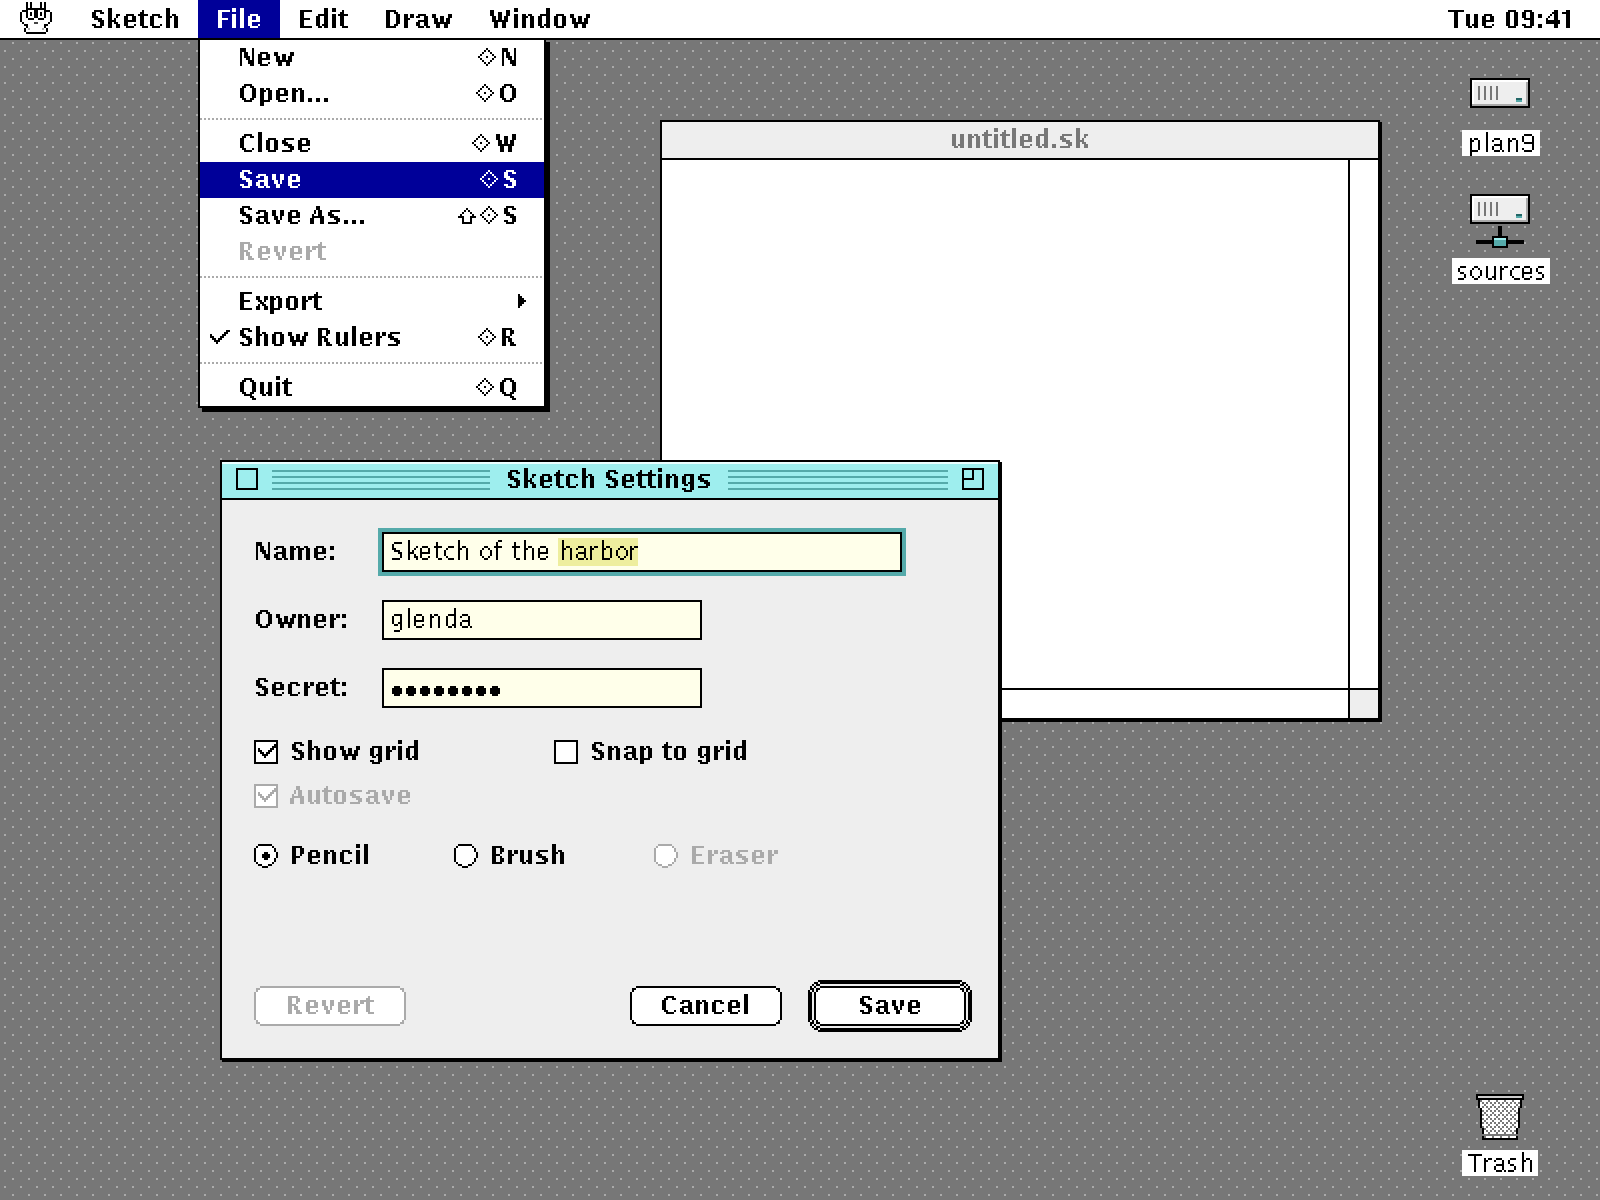
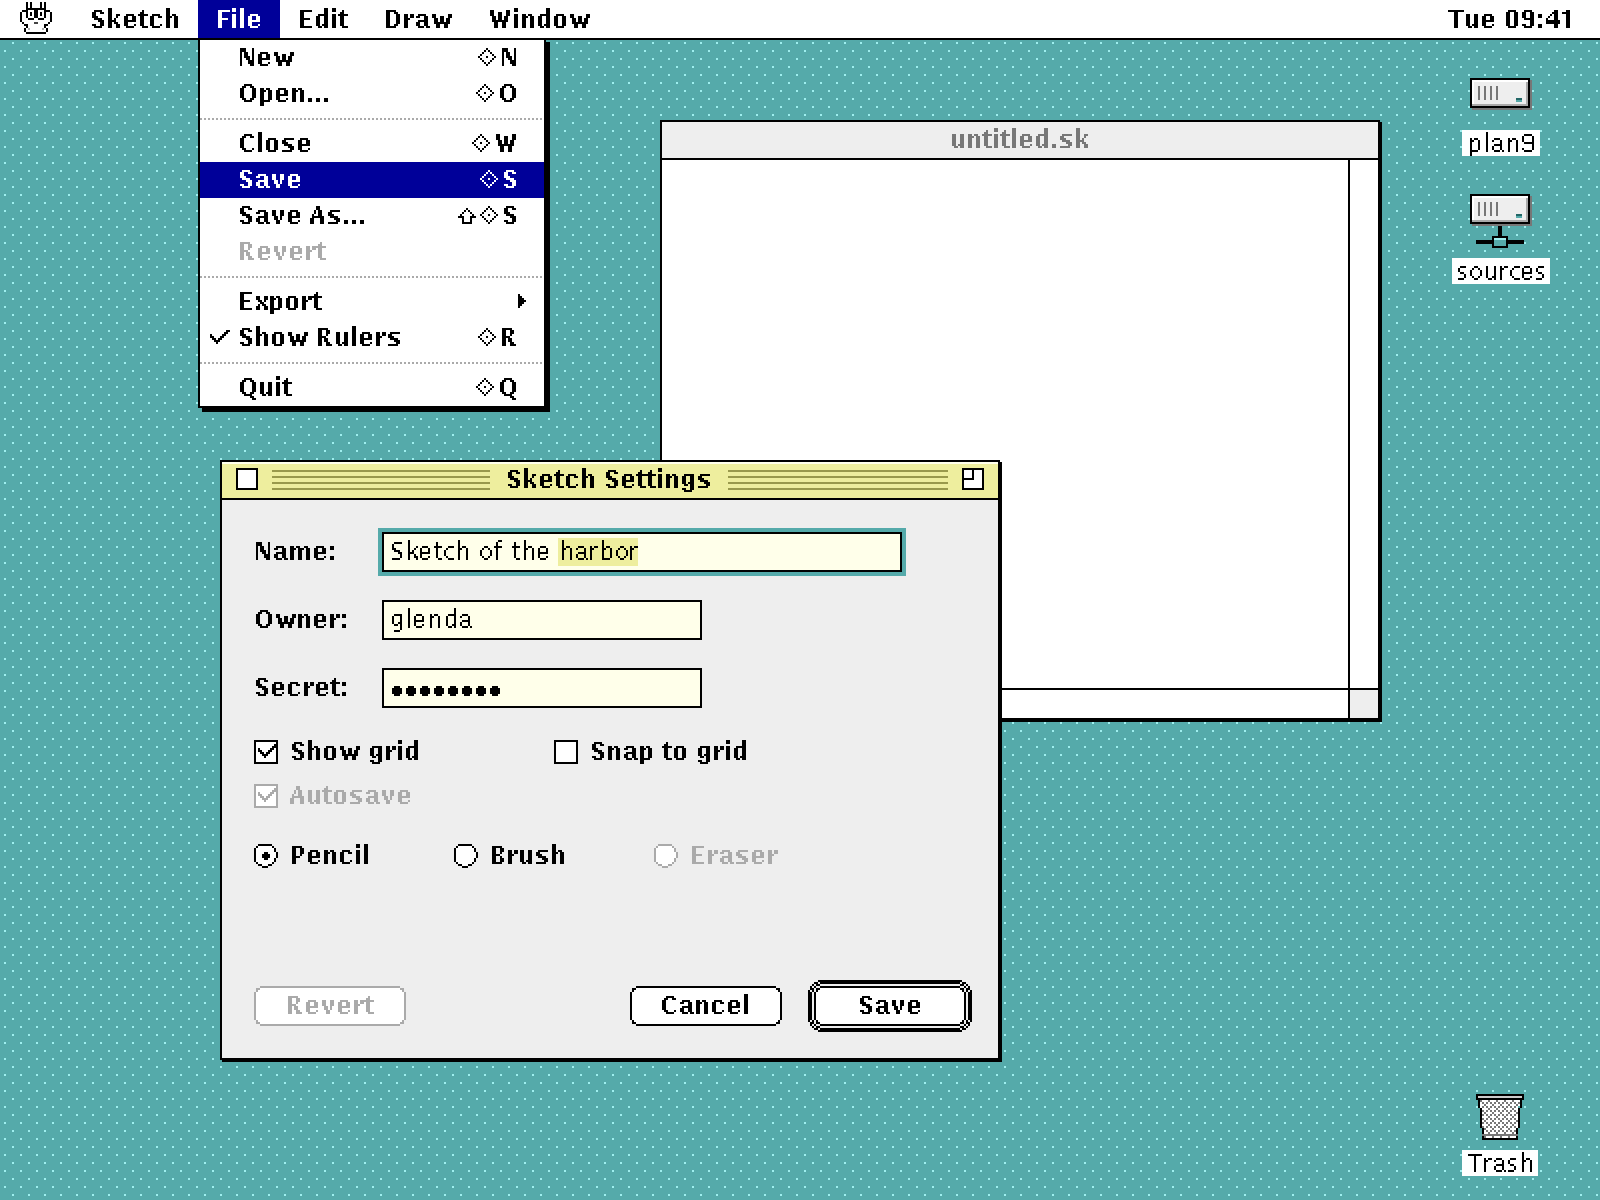
assets: make butter title bars on a Nine teal desktop the default
Jeff picked butter-teal. palette.ndb gains chrome roles (UXtitlebar,
UXdesktop, UXselect, ...) in gen/uxstyle.h so rio and libux draw by role;
Nine teal is the default pattern; the guide, mockups and theme list
follow. The first draft stays as the nine-sea theme.

Claude-Session: https://claude.ai/code/session_01LLcnT3VBRMhaqdJJxs96at

diff --git a/assets/tools/mockup.py b/assets/tools/mockup.py
@@ -24,10 +24,10 @@ import iconsheet
 # Themes. "nine" is the style guide; the others are explorations of
 # where the look could go. Every colour is still a palette name.
 BASE = dict(
-    desktop="ninegrey",
+    desktop="nineteal",
     sel="navy",              # object selection: menus, lists, icon labels
     title="rules",           # 'rules' (lines either side) or 'solid'
-    tbg="sea", thl="mist", trule="teal", rulestep=3, tfg="ink",
+    tbg="butter", thl="cream", trule="olive", rulestep=3, tfg="ink",
     tbg_off="grey1", tfg_off="grey4",
     boxes="mac",             # 'mac' (close left, zoom right) or 'win'
     frame=0,                 # width of a sizing border, 0 for none
@@ -40,11 +40,8 @@ BASE = dict(
 )
 THEMES = {
     "nine": dict(),
-    "nine-butter": dict(tbg="butter", thl="cream", trule="olive"),
-    "butter-teal": dict(tbg="butter", thl="cream", trule="olive",
-                        desktop="nineteal"),
-    "butter-deep": dict(tbg="butter", thl="cream", trule="olive",
-                        desktop="ninedeep"),
+    "nine-sea": dict(tbg="sea", thl="mist", trule="teal", desktop="ninegrey"),
+    "butter-deep": dict(desktop="ninedeep"),
     "nine-grey": dict(tbg="grey1", thl="paper", trule="grey3", tbg_off="paper"),
     "seven": dict(desktop="fifty", sel="ink", tbg="paper", thl=None,
                   trule="ink", rulestep=2, tbg_off="paper", tfg_off="grey3",
@@ -279,10 +276,10 @@ class UX:
                 cv.hline(tx + tw + p, yy, r1 - (tx + tw + p), self.c(t["trule"]))
         if active and t["boxes"] == "mac":
             by = y + (th - bs) // 2
-            cv.rect(x + bi, by, bs, bs, self.c(t["tbg"]))
+            cv.rect(x + bi, by, bs, bs, self.c("paper"))
             cv.frame(x + bi, by, bs, bs, ink)
             zx = x + w - bi - bs
-            cv.rect(zx, by, bs, bs, self.c(t["tbg"]))
+            cv.rect(zx, by, bs, bs, self.c("paper"))
             cv.frame(zx, by, bs, bs, ink)
             cv.frame(zx, by, 6, 6, ink)
         if t["boxes"] == "win":

diff --git a/assets/gen/uxstyle.h b/assets/gen/uxstyle.h
@@ -20,6 +20,25 @@ enum {
 	UXgrey5	= 0x444444FF,
 };
 
+/* roles: what each part of the chrome is drawn in */
+enum {
+	UXdesktop	= UXteal,
+	UXtitlebar	= UXbutter,
+	UXtitlelight	= UXcream,
+	UXtitlerule	= UXolive,
+	UXtitleoff	= UXgrey1,
+	UXtitletextoff	= UXgrey4,
+	UXselect	= UXnavy,
+	UXselecttext	= UXpaper,
+	UXtextselect	= UXbutter,
+	UXfield	= UXcream,
+	UXfocus	= UXteal,
+	UXface	= UXgrey1,
+	UXdialogband	= UXteal,
+	UXdisabled	= UXgrey3,
+	UXtrack	= UXgrey2,
+};
+
 /* metrics in pixels at 1x: see assets/metrics.ndb */
 enum {
 	UXmenubarheight	= 20,

diff --git a/assets/tools/mkassets.py b/assets/tools/mkassets.py
@@ -126,6 +126,12 @@ def build(out):
         r, g, b = c.rgb
         h.append("\tUX%s\t= 0x%02X%02X%02XFF," % (c.name, r, g, b))
     h.append("};\n")
+    h.append("/* roles: what each part of the chrome is drawn in */")
+    h.append("enum {")
+    for e in read_ndb(os.path.join(ASSETS, "palette.ndb")):
+        if "role" in e:
+            h.append("\tUX%s\t= UX%s," % (cname(e["role"]), e["color"]))
+    h.append("};\n")
     h.append("/* metrics in pixels at 1x: see assets/metrics.ndb */")
     h.append("enum {")
     for k, v in load_metrics().items():

diff --git a/assets/tools/uxassets.py b/assets/tools/uxassets.py
@@ -67,7 +67,7 @@ def load_palette(path=None):
     path = path or os.path.join(ASSETS, "palette.ndb")
     byname, bychar = {}, {}
     for e in read_ndb(path):
-        if "color" not in e:
+        if "color" not in e or "char" not in e:
             continue
         c = Color(e["color"], e["char"], hexrgb(e["rgb"]), e.get("bit", "0"))
         byname[c.name] = c

diff --git a/assets/README.md b/assets/README.md
@@ -16,9 +16,10 @@ artwork, and 9/UX ships no Apple resources; people can import their own
 1. **Macintosh structure, Plan 9 colour.** The shapes follow the classic
    desktop (a global menu bar, framed windows with a title bar, a close
    and a zoom box, push buttons, icons with labels). The colours are rio's
-   and acme's own (cream text, butter selection, the sea and teal of rio's
-   window borders), so 9/UX windows and legacy rio windows sit together on
-   one screen without either looking foreign.
+   and acme's own: butter title bars (rio's selection yellow, with acme's
+   cream and olive), a teal desktop (rio's greygreen), cream text fields
+   and butter text selection, so 9/UX windows and legacy rio windows sit
+   together on one screen without either looking foreign.
 2. **Black outlines, light fills.** Everything reads in 1 bit. Each colour
    has a defined 1-bit rendering, so the same source gives the colour icon
    and the `ICN#`-style one.
@@ -42,19 +43,24 @@ is the value to pass to `allocimage`.
 | ink | `K` | `000000` | black | outlines, text, frames |
 | paper | `W` | `FFFFFF` | white | menus, document windows, label plates |
 | cream | `Y` | `FFFFEA` | white | text field and text view background (acme's) |
-| butter | `y` | `EEEE9E` | white | text selection (rio's); folder fill |
-| olive | `o` | `99994C` | black | folder shading, embossed marks (rio's yellowgreen) |
-| mist | `c` | `EAFFFF` | white | highlight line on active title bars (acme's tag) |
-| sea | `C` | `9EEEEE` | white | active title bar, inactive rio border (rio's palegreygreen) |
-| teal | `T` | `55AAAA` | black | title rules, focus ring, dialog band, accents (rio's greygreen) |
+| butter | `y` | `EEEE9E` | white | active title bar; text selection (rio's); folder fill |
+| olive | `o` | `99994C` | black | title bar rules, folder shading, embossed marks (rio's yellowgreen) |
+| mist | `c` | `EAFFFF` | white | icon highlights (acme's tag) |
+| sea | `C` | `9EEEEE` | white | desktop dots, inactive rio border, icon accents (rio's palegreygreen) |
+| teal | `T` | `55AAAA` | black | the desktop, focus ring, dialog band, accents (rio's greygreen) |
 | deep | `D` | `226666` | black | dark accent in icons |
 | navy | `B` | `000099` | black | selection of objects: menu items, list rows, icon labels, pressed buttons |
 | red | `R` | `CC3333` | black | stop alerts, destructive emphasis |
 | grey1 | `1` | `EEEEEE` | white | dialog and control-panel face, inactive title bar |
 | grey2 | `2` | `CCCCCC` | white | scroll track, pressed check box |
 | grey3 | `3` | `AAAAAA` | white | disabled text and outlines, separators |
-| grey4 | `4` | `777777` | 50% | the desktop (rio's background), shadows, secondary marks |
+| grey4 | `4` | `777777` | 50% | shadows, secondary marks (rio's background) |
 | grey5 | `5` | `444444` | black | secondary text, grow box ridges |
+
+`palette.ndb` also names **roles** (`titlebar`, `desktop`, `select`,
+`focus`, ...), which `gen/uxstyle.h` has as `UXtitlebar` and so on.
+rio and libux should draw with the roles, so a theme change is an edit
+to `palette.ndb`.
 
 Two selection colours, on purpose: **butter** selects *text* (as in rio
 and acme), **navy** selects *objects* (menu items, list rows, icons).
@@ -132,9 +138,9 @@ All in [`metrics.ndb`](metrics.ndb); `gen/uxstyle.h` has them as
 ![Window chrome and Finder](mockups/desktop@2x.png)
 
 - **Frame:** 1 px ink, with a 1 px ink shadow offset right and down.
-- **Active title bar:** sea, with a mist line along its top and a 1 px
-  ink rule under it. The title is centred in the system font. Either side
-  of it, from the close box to the zoom box, run teal rules every 3 px,
+- **Active title bar:** butter, with a cream line along its top and a
+  1 px ink rule under it. The title is centred in the system font. Either
+  side of it, from the close box to the zoom box, run olive rules every 3 px,
   leaving 8 px clear around the title. The close box is at the left and
   the zoom box at the right: 11 px paper squares with an ink outline; the
   zoom box has a small square in its top left. Pressing the close box
@@ -233,17 +239,15 @@ bar, the Finder and the palette, and changes only chrome and controls.
 
 | Theme | What changes |
 |---|---|
-| `nine` | the guide as written above (sea title bar) |
-| `nine-butter` | title bar in rio's butter with olive rules |
-| `butter-teal` | butter title bars on a teal desktop with Nine grey's dot hatching in sea |
-| `butter-deep` | the same with darker (deep) dots |
+| `nine` | the guide as written above: butter title bars, Nine teal desktop (the chosen default) |
+| `nine-sea` | the first draft: sea title bars with teal rules, Nine grey desktop |
+| `butter-deep` | the default with darker (deep) desktop dots |
 | `nine-grey` | neutral grey1 title bar with grey3 rules |
 | `seven` | closer to System 7: paper title bars with dense ink rules, ink selection, rounder buttons, white dialogs with an ink band, dithered scroll tracks, a 50% grey desktop, rounded screen corners |
 | `win` | closer to Windows 3.1: solid navy title bar with paper title, a control box and shrink/grow buttons, a grey sizing border, bevelled grey buttons and scroll bars, grey dialogs, a teal desktop |
 
-The themes are defined at the top of `tools/mockup.py`; once one is
-chosen, its values move into `metrics.ndb` and `palette.ndb` and this
-guide.
+The themes are defined at the top of `tools/mockup.py`. `nine` matches
+the roles in `palette.ndb`; change both together.
 
 ## Cursors
 
@@ -270,8 +274,9 @@ Legacy rio windows keep their own cursors.
 ![Patterns](mockups/patterns@2x.png)
 
 8x8 tiles in [`patterns/patterns.txt`](patterns/patterns.txt). The
-first, **Nine grey**, is the default: rio's own background grey with a
-faint grey3 dot, so the desktop looks like rio's but reads as a surface.
+first, **Nine teal**, is the default: rio's greygreen with a sparse
+sea dot, so the desktop reads as a surface behind butter title bars.
+**Nine grey** is the same dot on rio's own background grey.
 
 ## Chrome glyphs
 
